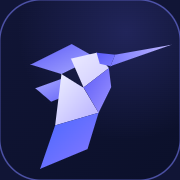
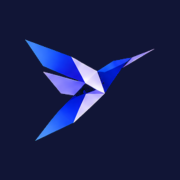
fix: usar o beija-flor aprovado (arquivos finais fiéis) no cabeçalho, abertura e ícones
O kit SVG anterior trazia um desenho diferente do símbolo aprovado.
O pássaro foi recortado da arte final sem redesenho.

diff --git a/index.html b/index.html
@@ -34,8 +34,9 @@
 .palco{position:relative;width:800px;height:520px;flex:none;transform:scale(var(--escala,1))}
 .linha{stroke-dasharray:1;stroke-dashoffset:1;animation:desenhar 1.2s cubic-bezier(.5,0,.12,1) .12s forwards}
 .linha2{stroke-dasharray:1;stroke-dashoffset:1;animation:desenhar 1.05s cubic-bezier(.5,0,.12,1) .2s forwards}
-.ave{position:absolute;left:0;top:0;width:96px;height:86px;offset-path:path('M225 360 C365 356 495 316 575 210');offset-rotate:0deg;offset-anchor:8% 98%;offset-distance:0%;opacity:0;animation:voar 1.2s cubic-bezier(.5,0,.12,1) .12s forwards}
-.asa{width:96px;height:86px;transform-origin:50% 60%;animation:bater .085s ease-in-out .12s 14 alternate}
+.ave{position:absolute;left:0;top:0;width:110px;height:86px;offset-path:path('M225 360 C365 356 495 316 575 210');offset-rotate:0deg;offset-anchor:15% 98%;offset-distance:0%;opacity:0;animation:voar 1.2s cubic-bezier(.5,0,.12,1) .12s forwards}
+.asa img{display:block}
+.asa{width:110px;height:86px;transform-origin:50% 60%;animation:bater .085s ease-in-out .12s 14 alternate}
 .nome{position:absolute;left:0;right:0;top:400px;display:flex;flex-direction:column;align-items:center;gap:14px}
 .marca{margin:0;font-size:64px;font-weight:600;letter-spacing:-.02em;line-height:1;opacity:0;transform:translateY(10px);animation:surgir .5s cubic-bezier(.2,.7,.2,1) 1.15s forwards}
 .marca span{color:#5B5BF7}
@@ -57,7 +58,7 @@
       <path class="linha" pathLength="1" d="M225 360 C365 356 495 316 575 210" stroke="#A9A9FF" stroke-width="1.6" stroke-linecap="round" fill="none"/>
     </svg>
     <div class="ave"><div class="asa">
-      <svg width="96" height="86" viewBox="30 52 364 324"><defs><linearGradient id="ab-grad1" x1="0%" y1="0%" x2="100%" y2="100%"><stop offset="0%" stop-color="#5B5BF7"/><stop offset="100%" stop-color="#A9A9FF"/></linearGradient><linearGradient id="ab-grad2" x1="0%" y1="0%" x2="100%" y2="100%"><stop offset="0%" stop-color="#A9A9FF"/><stop offset="100%" stop-color="#5B5BF7"/></linearGradient><linearGradient id="ab-grad3" x1="0%" y1="0%" x2="100%" y2="100%"><stop offset="0%" stop-color="#ECEBFF"/><stop offset="100%" stop-color="#CFCBFF"/></linearGradient><linearGradient id="ab-grad4" x1="0%" y1="0%" x2="100%" y2="100%"><stop offset="0%" stop-color="#5B5BF7"/><stop offset="100%" stop-color="#7C7CFF"/></linearGradient><linearGradient id="ab-grad5" x1="0%" y1="50%" x2="100%" y2="50%"><stop offset="0%" stop-color="#7B7BFF"/><stop offset="100%" stop-color="#BEB6FF"/></linearGradient><linearGradient id="ab-grad6" x1="0%" y1="0%" x2="100%" y2="100%"><stop offset="0%" stop-color="#EEF0FF"/><stop offset="100%" stop-color="#B6AEFF"/></linearGradient><linearGradient id="ab-grad7" x1="0%" y1="0%" x2="100%" y2="100%"><stop offset="0%" stop-color="#5B5BF7"/><stop offset="100%" stop-color="#9D93FF"/></linearGradient><linearGradient id="ab-grad8" x1="0%" y1="0%" x2="100%" y2="100%"><stop offset="0%" stop-color="#4667FF"/><stop offset="100%" stop-color="#8A79FF"/></linearGradient></defs><polygon points="34,108 138,56 198,90 112,132" fill="url(#ab-grad1)"/><polygon points="46,168 118,142 170,168 86,202" fill="url(#ab-grad2)"/><polygon points="136,93 201,78 232,117 168,166" fill="url(#ab-grad3)"/><polygon points="201,78 248,83 236,112 209,106" fill="url(#ab-grad4)"/><polygon points="248,83 390,58 236,112" fill="url(#ab-grad5)"/><polygon points="112,132 168,167 206,230 96,262" fill="url(#ab-grad6)"/><polygon points="168,166 232,117 238,165 206,230" fill="url(#ab-grad7)"/><polygon points="96,262 206,230 178,322 58,372" fill="url(#ab-grad8)"/></svg>
+      <img src="/assets/rema-ia-simbolo.png" alt="" width="110" height="86">
     </div></div>
     <div class="nome">
       <p class="marca">rema<span>.ia</span></p>
@@ -70,7 +71,7 @@
 <header class="topo">
 <div class="wrap">
 <a class="logo" href="/" aria-label="rema.ia, página inicial">
-<img src="/assets/rema-ia-simbolo.svg" alt="" width="45" height="40">
+<img src="/assets/rema-ia-simbolo.png" alt="" width="51" height="40">
 <span>rema<span>.ia</span></span>
 </a>
 <nav class="menu" aria-label="Principal">

diff --git a/como-funciona.html b/como-funciona.html
@@ -30,7 +30,7 @@ body{animation:entrada .6s ease-out both}
 <header style="border-bottom: 1px solid #E4E4EE">
 <div style="max-width: 1200px; margin: 0 auto; padding: 18px 24px; display: flex; flex-wrap: wrap; align-items: center; justify-content: space-between; gap: 16px">
 <a href="/" style="display: flex; align-items: center; gap: 12px; text-decoration: none; color: #111536">
-<img src="/assets/rema-ia-simbolo.svg" alt="" width="45" height="40">
+<img src="/assets/rema-ia-simbolo.png" alt="" width="51" height="40">
 <span style="font-size: 24px; font-weight: 600; letter-spacing: -0.02em">rema<span style="color: #5B5BF7">.ia</span></span>
 </a>
 <nav aria-label="Principal" style="display: flex; flex-wrap: wrap; align-items: center; gap: 24px; font-size: 15px; font-weight: 300">

diff --git a/contato/index.html b/contato/index.html
@@ -19,7 +19,7 @@
 <header class="topo">
 <div class="wrap">
 <a class="logo" href="/" aria-label="rema.ia, página inicial">
-<img src="/assets/rema-ia-simbolo.svg" alt="" width="45" height="40">
+<img src="/assets/rema-ia-simbolo.png" alt="" width="51" height="40">
 <span>rema<span>.ia</span></span>
 </a>
 <nav class="menu" aria-label="Principal">

diff --git a/fundador/index.html b/fundador/index.html
@@ -19,7 +19,7 @@
 <header class="topo">
 <div class="wrap">
 <a class="logo" href="/" aria-label="rema.ia, página inicial">
-<img src="/assets/rema-ia-simbolo.svg" alt="" width="45" height="40">
+<img src="/assets/rema-ia-simbolo.png" alt="" width="51" height="40">
 <span>rema<span>.ia</span></span>
 </a>
 <nav class="menu" aria-label="Principal">

diff --git a/raio-x/index.html b/raio-x/index.html
@@ -19,7 +19,7 @@
 <header class="topo">
 <div class="wrap">
 <a class="logo" href="/" aria-label="rema.ia, página inicial">
-<img src="/assets/rema-ia-simbolo.svg" alt="" width="45" height="40">
+<img src="/assets/rema-ia-simbolo.png" alt="" width="51" height="40">
 <span>rema<span>.ia</span></span>
 </a>
 <nav class="menu" aria-label="Principal">

diff --git a/sobre/index.html b/sobre/index.html
@@ -19,7 +19,7 @@
 <header class="topo">
 <div class="wrap">
 <a class="logo" href="/" aria-label="rema.ia, página inicial">
-<img src="/assets/rema-ia-simbolo.svg" alt="" width="45" height="40">
+<img src="/assets/rema-ia-simbolo.png" alt="" width="51" height="40">
 <span>rema<span>.ia</span></span>
 </a>
 <nav class="menu" aria-label="Principal">

diff --git a/solucoes/index.html b/solucoes/index.html
@@ -19,7 +19,7 @@
 <header class="topo">
 <div class="wrap">
 <a class="logo" href="/" aria-label="rema.ia, página inicial">
-<img src="/assets/rema-ia-simbolo.svg" alt="" width="45" height="40">
+<img src="/assets/rema-ia-simbolo.png" alt="" width="51" height="40">
 <span>rema<span>.ia</span></span>
 </a>
 <nav class="menu" aria-label="Principal">

diff --git a/README.md b/README.md
@@ -16,9 +16,9 @@ como-funciona.html      Etapas da implantação (fora do menu; linkada em Soluç
 assets/
   site.css                  Estilo global das páginas
   rema-ia-tokens.css        Cores e fontes da marca
-  rema-ia-simbolo.svg       Símbolo isolado (cabeçalho), recortado do kit oficial
-  favicon.svg, favicon.ico, apple-touch-icon.png   Gerados do ícone de app do kit
-  marca/                    Kit SVG oficial (logos claro/escuro, ícones de app e redes)
+  rema-ia-simbolo.png       Símbolo (cabeçalho e abertura), recortado da arte aprovada sem redesenho
+  favicon.svg, favicon.ico, apple-touch-icon.png   Símbolo aprovado sobre fundo Noite
+  marca/                    Arquivos finais aprovados (logo fundo escuro/claro, símbolo isolado)
 ```
 
 O cabeçalho e o rodapé se repetem em cada página: ao mudar o menu, atualize todas.
